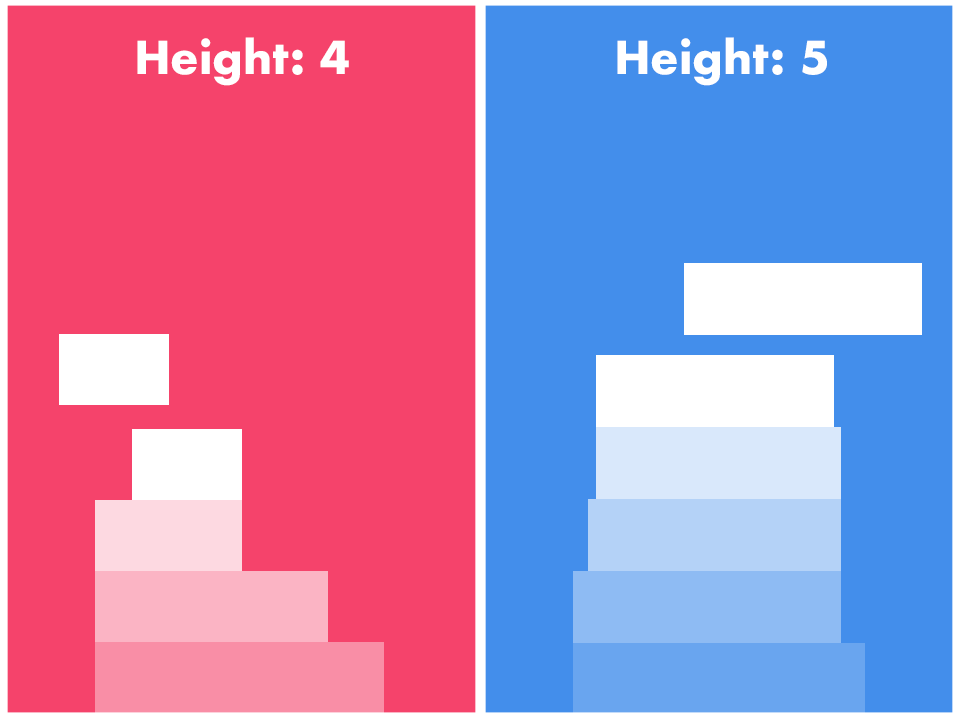
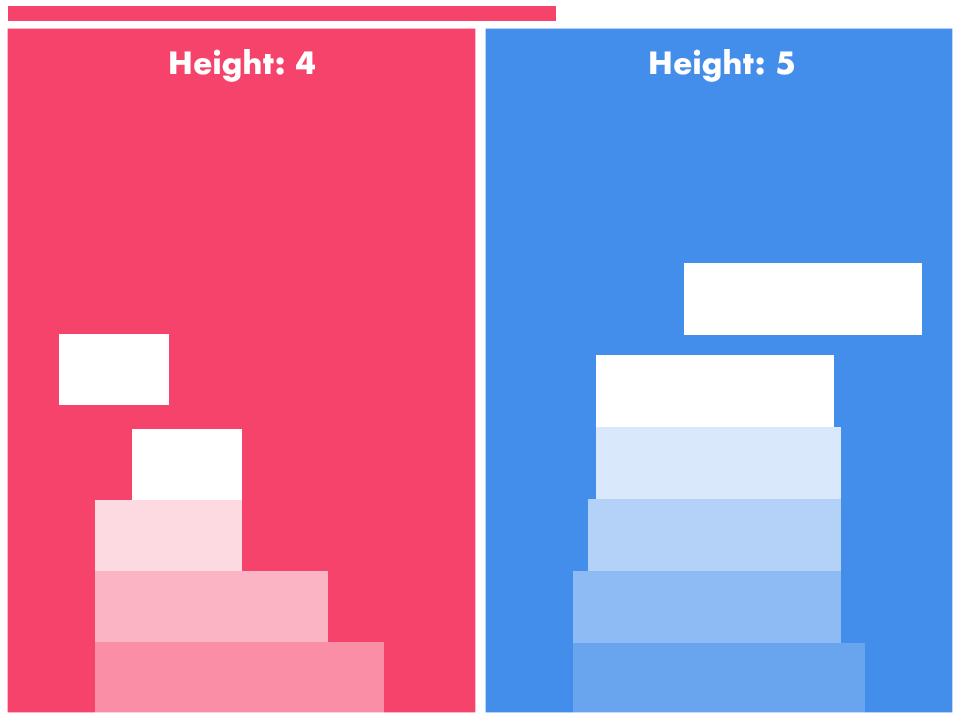
updated hw02

Changed region(s): [[0.0, 0.0, 1.0, 0.1222]]

diff --git a/hwk02/index.html b/hwk02/index.html
@@ -21,6 +21,7 @@
 <body>
 	<img src="intro.png" alt="intro">
 	<img src="game.png" alt="game">
+	<img src="win.png" alt="win">
 	<img src="lose.png" alt="lose">
 </body>
 
